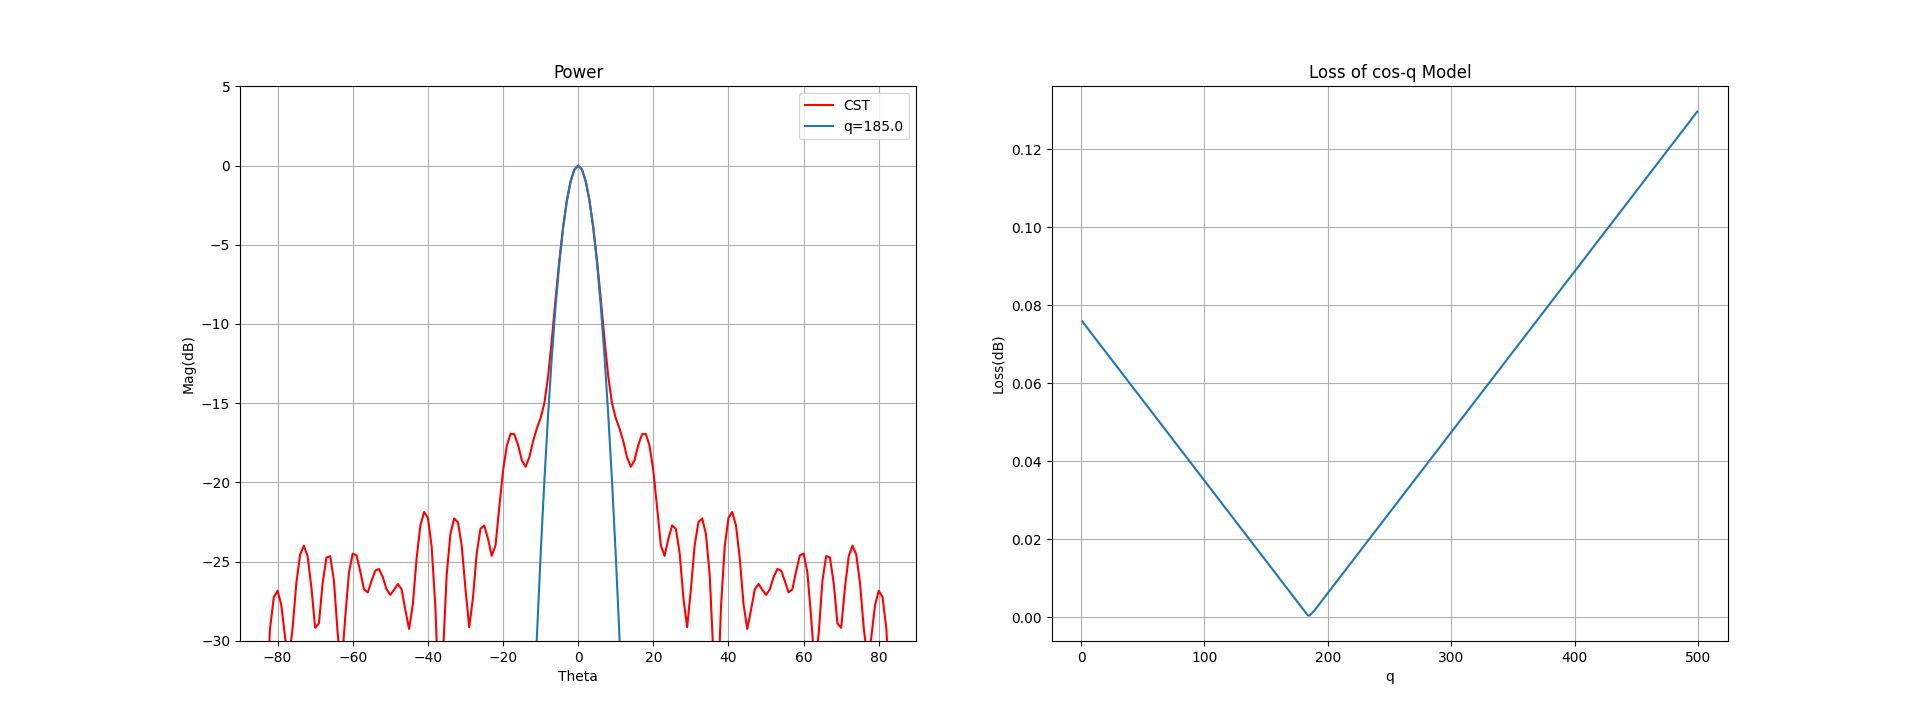
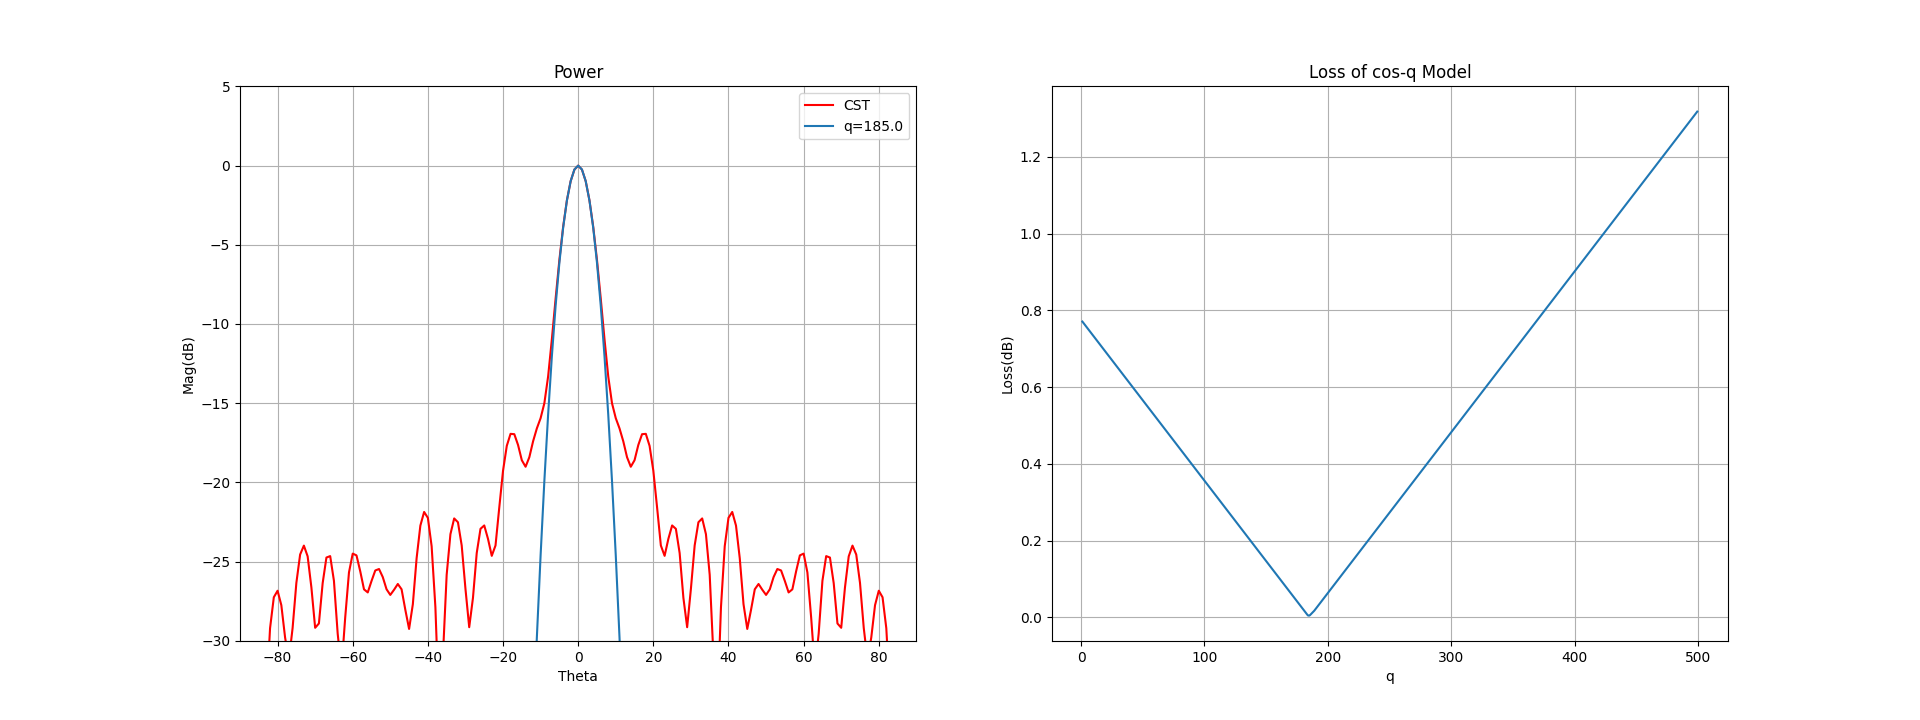
Changes

Changed region(s): [[0.5, 0.4583, 0.5625, 0.55], [0.5312, 0.7333, 0.5625, 0.7639], [0.5312, 0.3056, 0.5625, 0.3361]]

diff --git a/src/part5_system_analysis/step2_array_theory.py b/src/part5_system_analysis/step2_array_theory.py
@@ -14,20 +14,16 @@ def cal_element_pattern(qe, uv, bv, theta):
     mask = np.logical_and(theta > -90, theta < 90)
     element_pattern = np.zeros_like(theta, dtype=complex)
     element_pattern[mask] = np.power(np.cos(theta[mask]), qe * 2) * np.exp(1j * k * np.dot(uv, bv))
-    # element_pattern = 10* np.log10(np.abs(element_pattern))
+    # element_pattern = 10 * np.log10(np.abs(element_pattern))
     return element_pattern
 
 
 def cal_excitation(qf, qe, uv, fv, phase):
-    theta_f = np.arccos(fv[2] / np.linalg.norm(fv))
     local_v = fv - uv
     r = np.linalg.norm(local_v)
     theta_e = np.arccos(local_v[2] / r) if r != 0 else 0
+    theta_f = np.arccos(fv[2] / np.linalg.norm(fv)) if r != 0 else 0
 
-    # temp_1 = np.power(np.clip(np.cos(theta_f), 1e-10, None), qf) / np.linalg.norm(uv - fv)
-    # temp_2 = np.exp(-1j * k * np.linalg.norm(uv - fv))
-    # temp_3 = np.power(np.clip(np.cos(theta_e), 1e-10, None), qe)
-    # temp_4 = np.exp(1j * phase)
     a = np.cos(theta_f)
     temp_1 = np.power(a, qf * 2) / np.linalg.norm(uv - fv)
     temp_2 = np.exp(-1j * k * np.linalg.norm(uv - fv))
@@ -44,8 +40,13 @@ def plot_pattern(theta, pattern):
     sub_pattern = data[:, 2]
     # sub_pattern = data[:, 2] - np.max(data[:, 2])
     simulation_pattern = np.concatenate((sub_pattern[::-1], sub_pattern[1::])).reshape(-1, 1)
-    plt.figure()
+    plt.figure(1)
     plt.plot(theta, pattern, label="Array-Theory Method")
+    plt.plot(theta, simulation_pattern, label="Simulation")
+    plt.legend()
+    plt.show()
+
+    plt.figure(2)
     plt.plot(theta, simulation_pattern, label="Simulation")
     plt.legend()
     plt.show()
@@ -90,12 +91,12 @@ if __name__ == "__main__":
             pattern_array[i, j] = pattern
             pattern_array_0[i, j] = pattern[int(len(theta) / 2)]
             illumination_array[i, j] = illumination
-            aperture_pattern += pattern * illumination
+            # aperture_pattern += pattern * np.abs(illumination)
+            # aperture_pattern += pattern * illumination
+            aperture_pattern += pattern
     # for i in range(len(aperture_pattern)):
     #     aperture_pattern[i] = np.linalg.norm(aperture_pattern[i])
     # aperture_pattern = aperture_pattern.astype(float)
     aperture_pattern = np.abs(aperture_pattern)
-    # aperture_pattern[:177] = 0
-    # aperture_pattern[183:] = 0
-    aperture_pattern = 10 * np.log10(aperture_pattern - 1e-15)
+    # aperture_pattern = 10 * np.log10(aperture_pattern + 1e-15)
     plot_pattern(theta, (aperture_pattern))

diff --git a/src/part5_system_analysis/step1_simulation_post_process.py b/src/part5_system_analysis/step1_simulation_post_process.py
@@ -26,7 +26,7 @@ def find_best_q(file_path, img_path, q_min, q_max, three_db_range):
             index = np.where(q_range == q)[0].item()
             cos_model[:, index] = cos_value.flat
             p_start, p_end = center - three_db_range, center + three_db_range
-            loss[index] = 1 / 61 * np.sum(np.abs(cos_value[p_start:p_end] - mag[p_start:p_end]))
+            loss[index] = 1 / (p_end-p_start) * np.sum(np.abs(cos_value[p_start:p_end] - mag[p_start:p_end]))
         for i in range(len(q_range)):
             if i == np.where(loss == np.min(loss))[0].item():
                 q_best = q_range[i]
